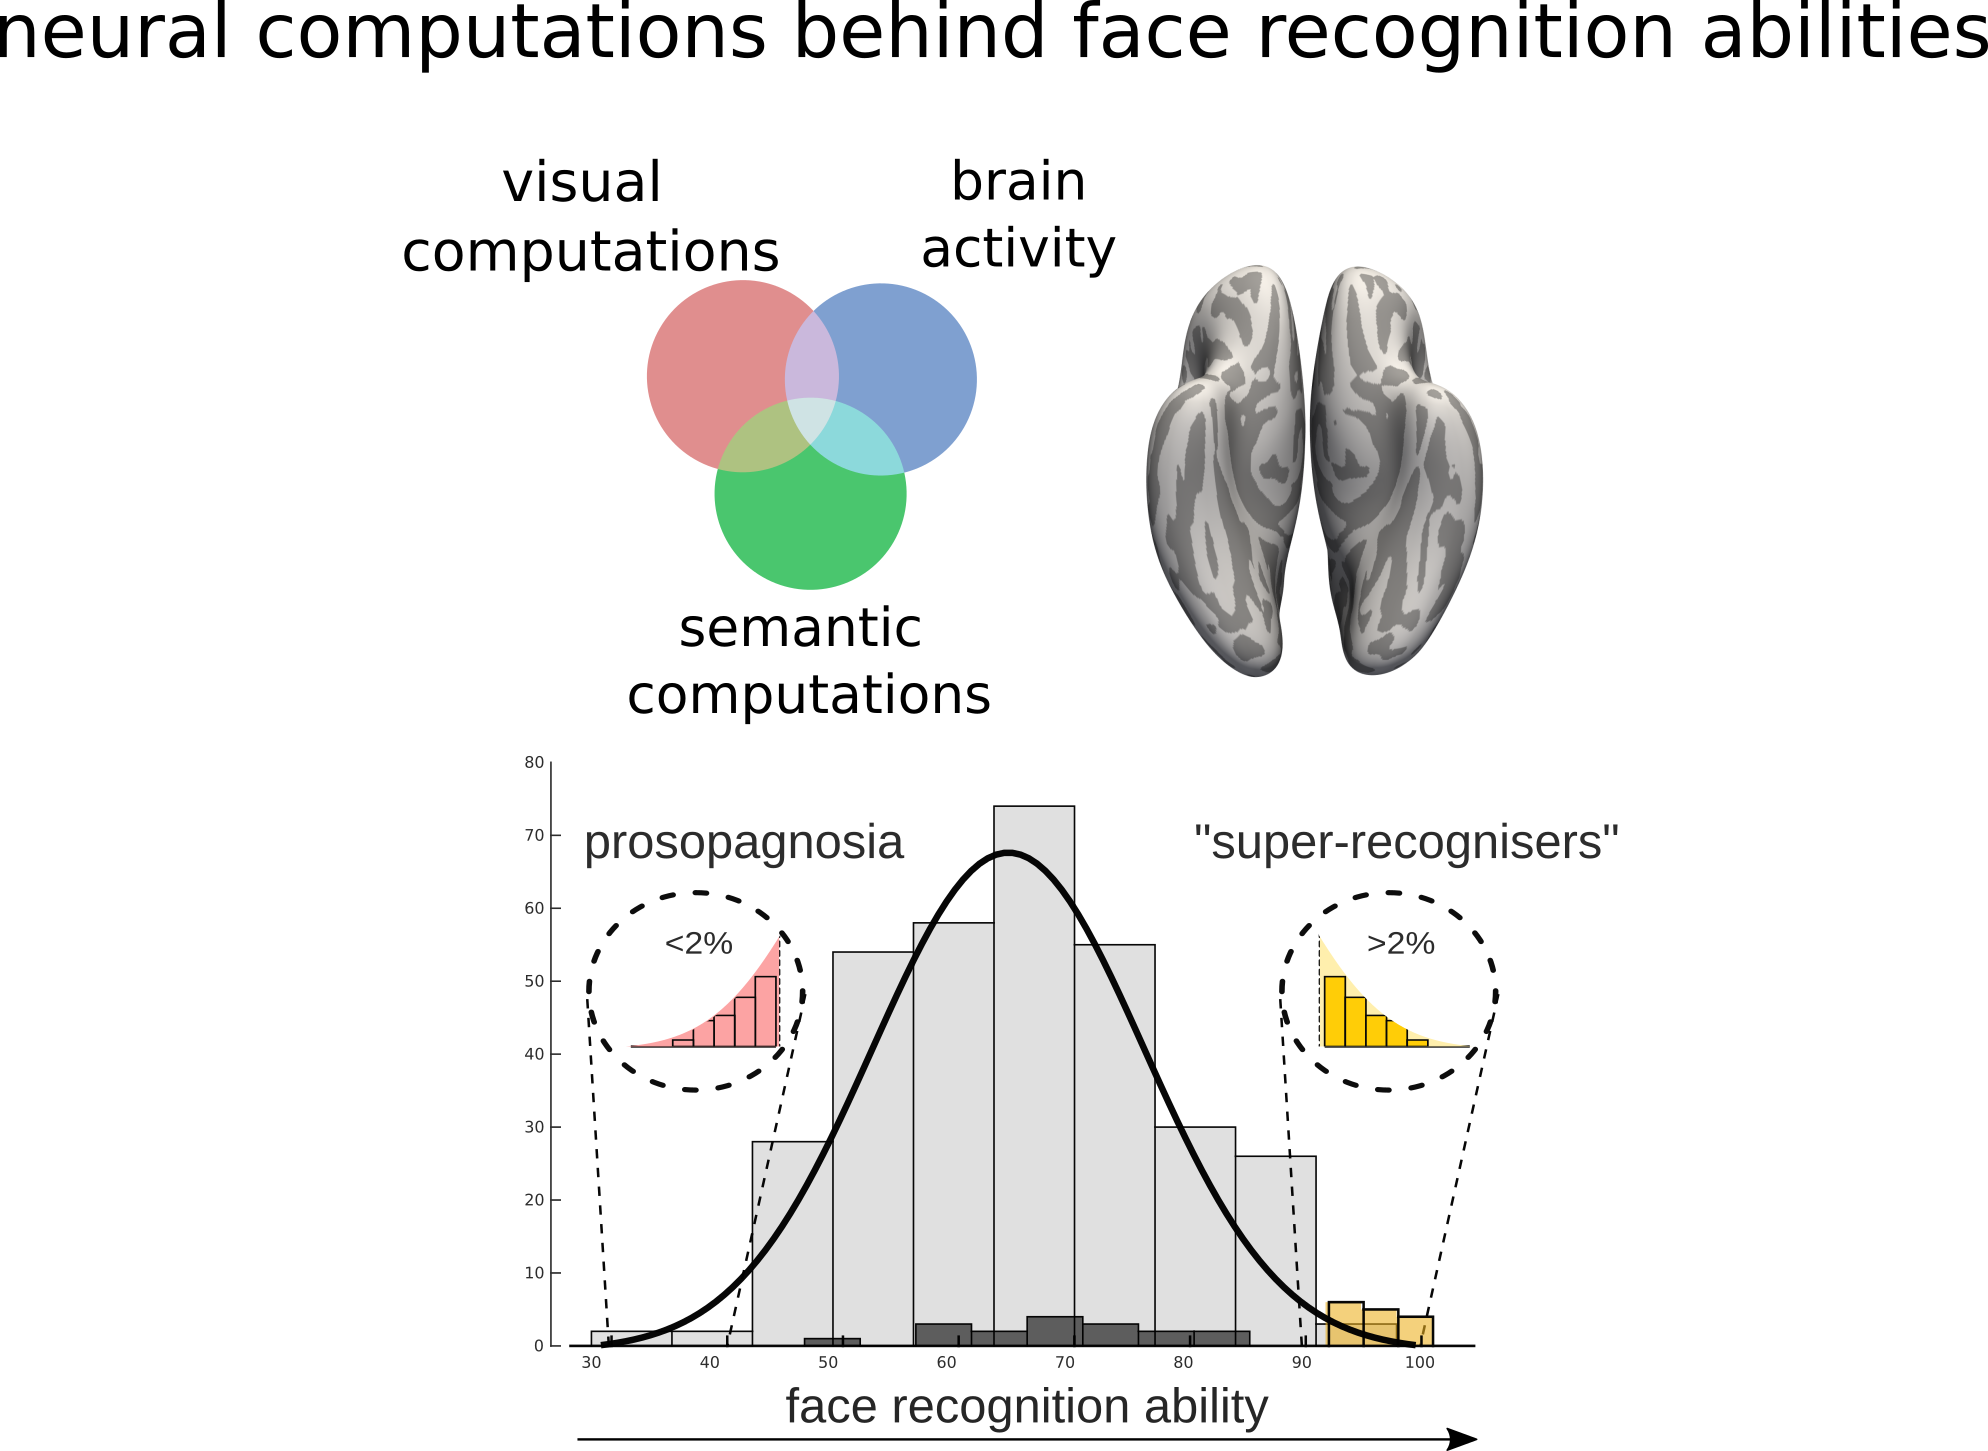
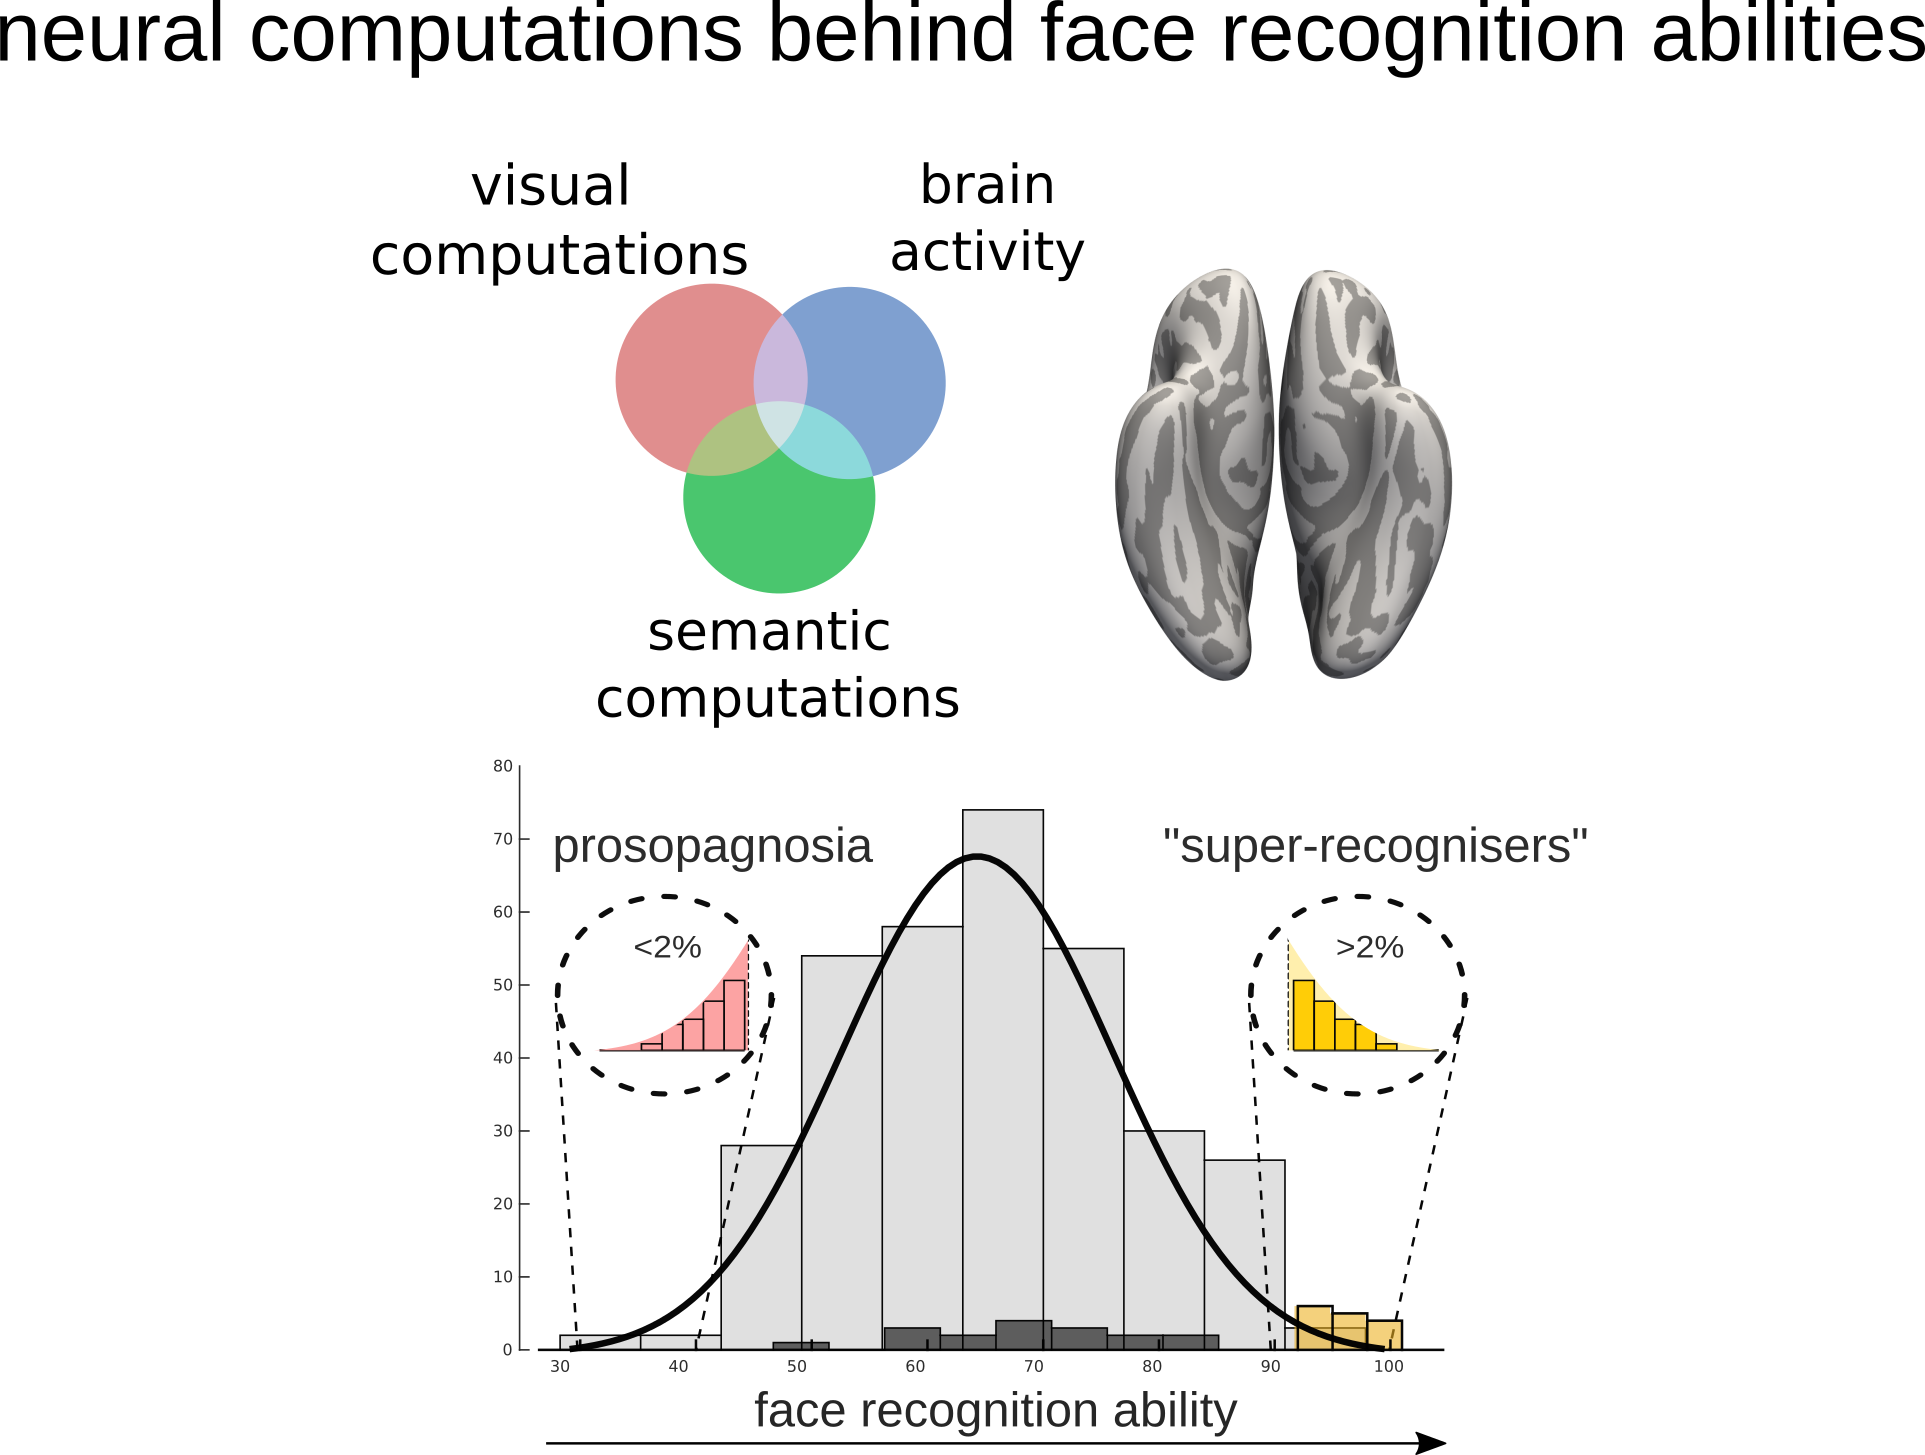
first & second panel image EEG SR

diff --git a/index.html b/index.html
@@ -48,7 +48,7 @@
 									<p> under construction..</p>
 								<section>
 									<div class="row">
-										<div class="col-6">
+										<div class="col-8">
 											<a href="#research/#neuralcomp" class="image fit" >
 											<img src="images/figure_venn_visualbrainsemantic_ability.png" alt="">
 											<span class="arrow icon solid fa-chevron-right"></span>
